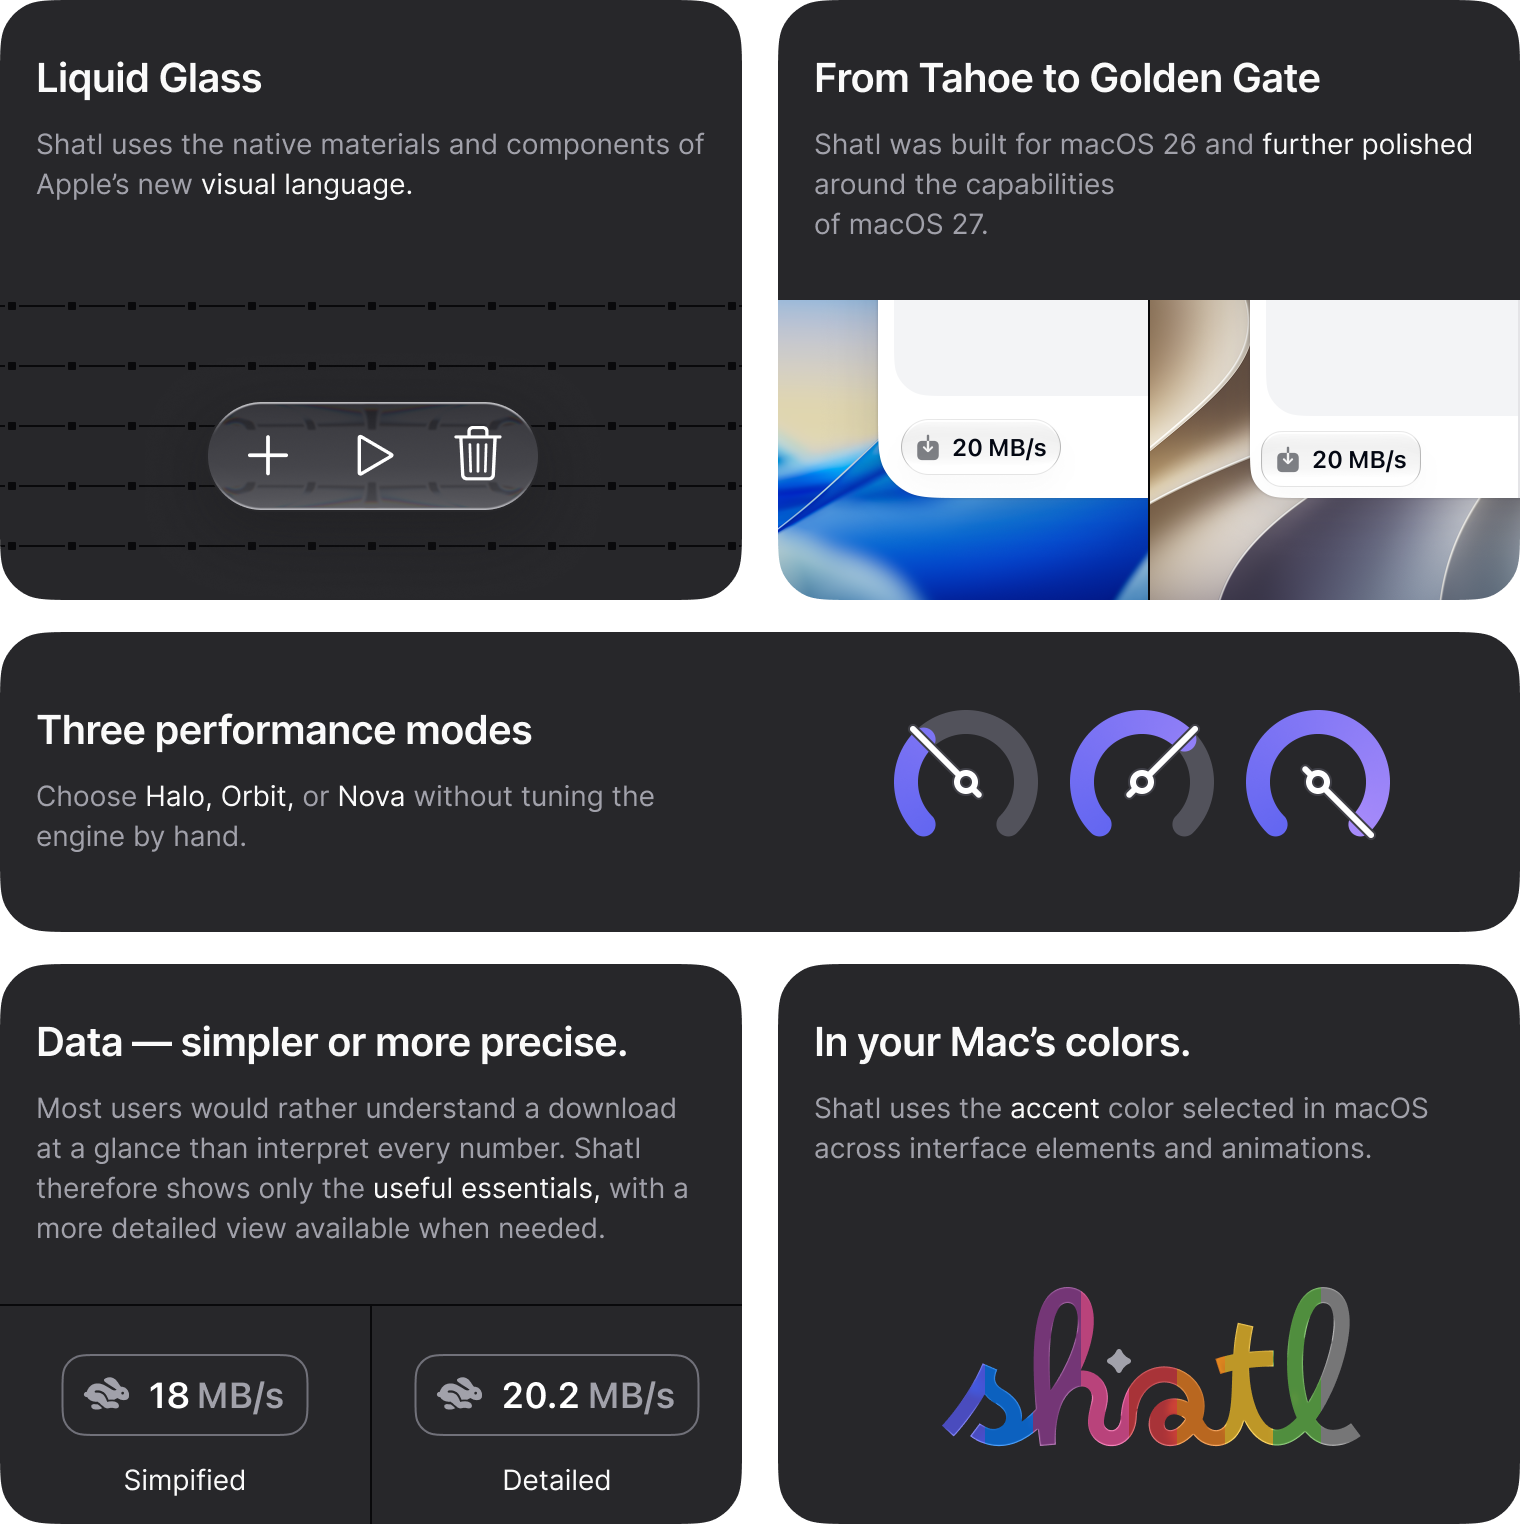
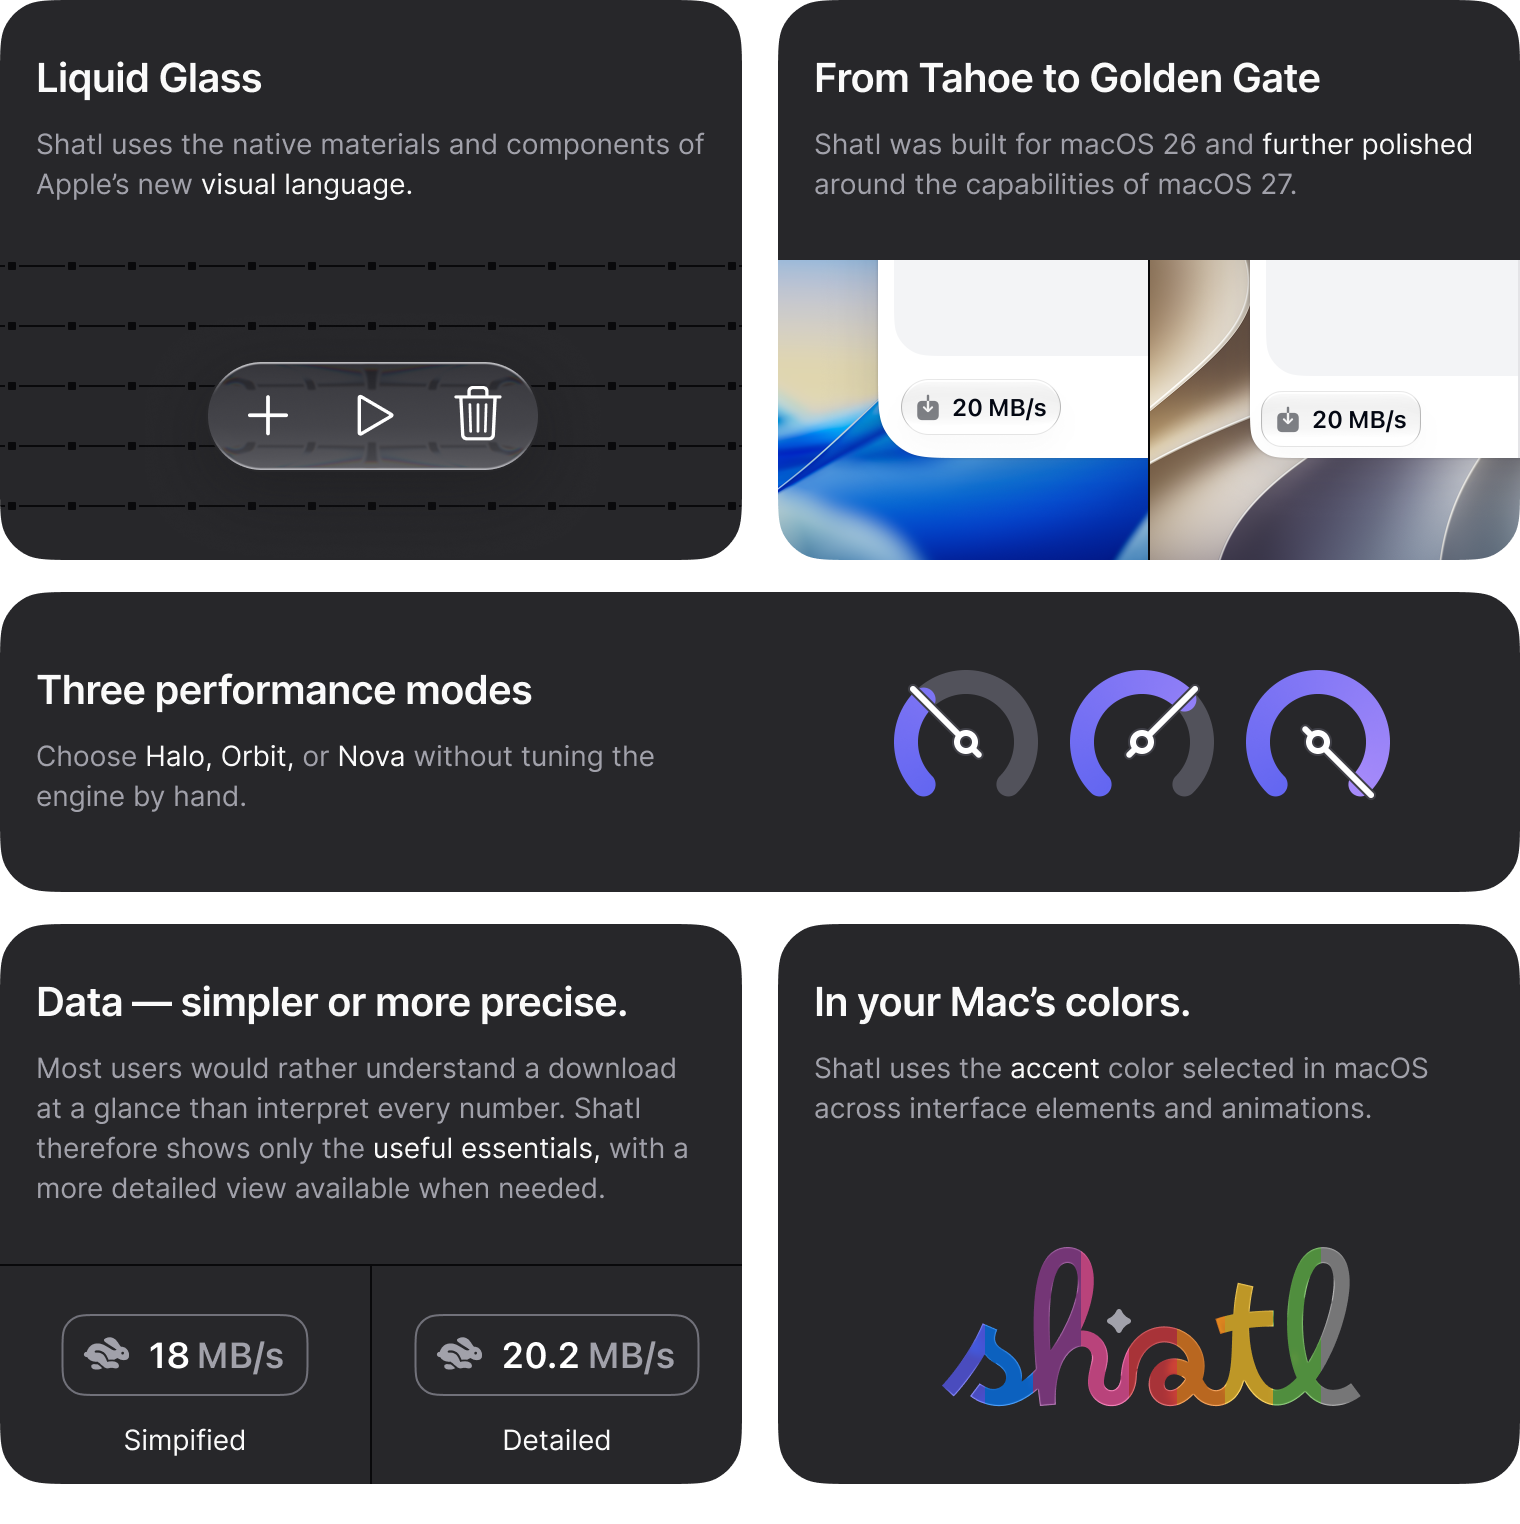
Update the README for the disk image release
- New hero and capabilities artwork.
- Download: the disk image, drag to Applications. The app has no Apple
  Developer ID signature or notarization; the steps past the first-launch
  block match the guide inside the disk image.
- Privacy: the weekly report lists all five fields, including the random
  install identifier and the week.
- Release builds contain no logging code.
- Liquid Glass instead of "native materials".

diff --git a/README.md b/README.md
@@ -36,7 +36,7 @@ settings, and follow progress without unnecessary visual noise.
   low-level libtorrent settings by hand.
 - **Make downloads recognizable.** Give a torrent a clear alias while keeping
   its original name available when needed.
-- **Feel at home on macOS.** Shatl uses SwiftUI, native materials, the system
+- **Feel at home on macOS.** Shatl uses SwiftUI, Liquid Glass, the system
   accent color, notifications, and Reduce Motion support.
 - **Use it in your language.** The interface is available in English, German,
   Spanish, French, Russian, Japanese, and Simplified Chinese.
@@ -46,14 +46,15 @@ session between launches, including downloads that need attention.
 
 ## Download
 
-Download `Shatl-1.0.zip` from the
+Download the disk image from the
 [latest release](https://github.com/mamontov-design/shatl-updates/releases/latest),
-extract it, and move `Shatl.app` to the Applications folder.
+open it, and drag Shatl to the Applications folder.
 
-The first release is not notarized. If macOS blocks the first launch, open
-**System Settings → Privacy & Security** and choose **Open Anyway** for Shatl.
-Future updates are delivered in the app through
-[Sparkle](https://sparkle-project.org/).
+Shatl is not signed with an Apple Developer ID or notarized, so macOS blocks
+the first launch. Click **Done** in the warning, open
+**System Settings → Privacy & Security**, choose **Open Anyway** for Shatl, and
+confirm. The disk image includes a step-by-step guide. Future updates are
+delivered in the app through [Sparkle](https://sparkle-project.org/).
 
 ## Requirements
 
@@ -79,12 +80,13 @@ Scripts/build-libtorrent.sh
 ## Privacy
 
 Anonymous usage statistics are opt-in. When enabled, Shatl sends at most one
-aggregate report per week containing the launch count, app version, and
-interface language. It does not send torrent contents, file names, paths, or
-magnet links, and the payload can be inspected from the app before it is sent.
+report per week containing a random install identifier, the week, the number of
+launches that week, the app version, and the interface language. It does not
+send torrent contents, file names, paths, or magnet links, and the payload can
+be inspected from the app before it is sent.
 
-Diagnostic file logging is disabled by default and cannot be activated in
-release builds.
+Release builds contain no logging code; diagnostic logs exist only in
+development builds.
 
 ## License and responsible use
 
